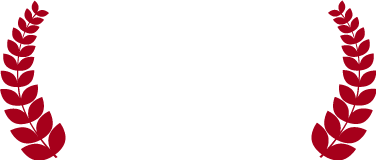
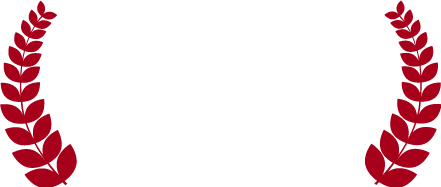
Fixes

diff --git a/css/ie.css b/css/ie.css
@@ -16,7 +16,7 @@
 
   #featured-banner-content {
     display: block;
-    width: 376px;
+    width: 441px;
     background: transparent url(../images/badge_red_ie_medium.png) center center no-repeat;
   }
 }
